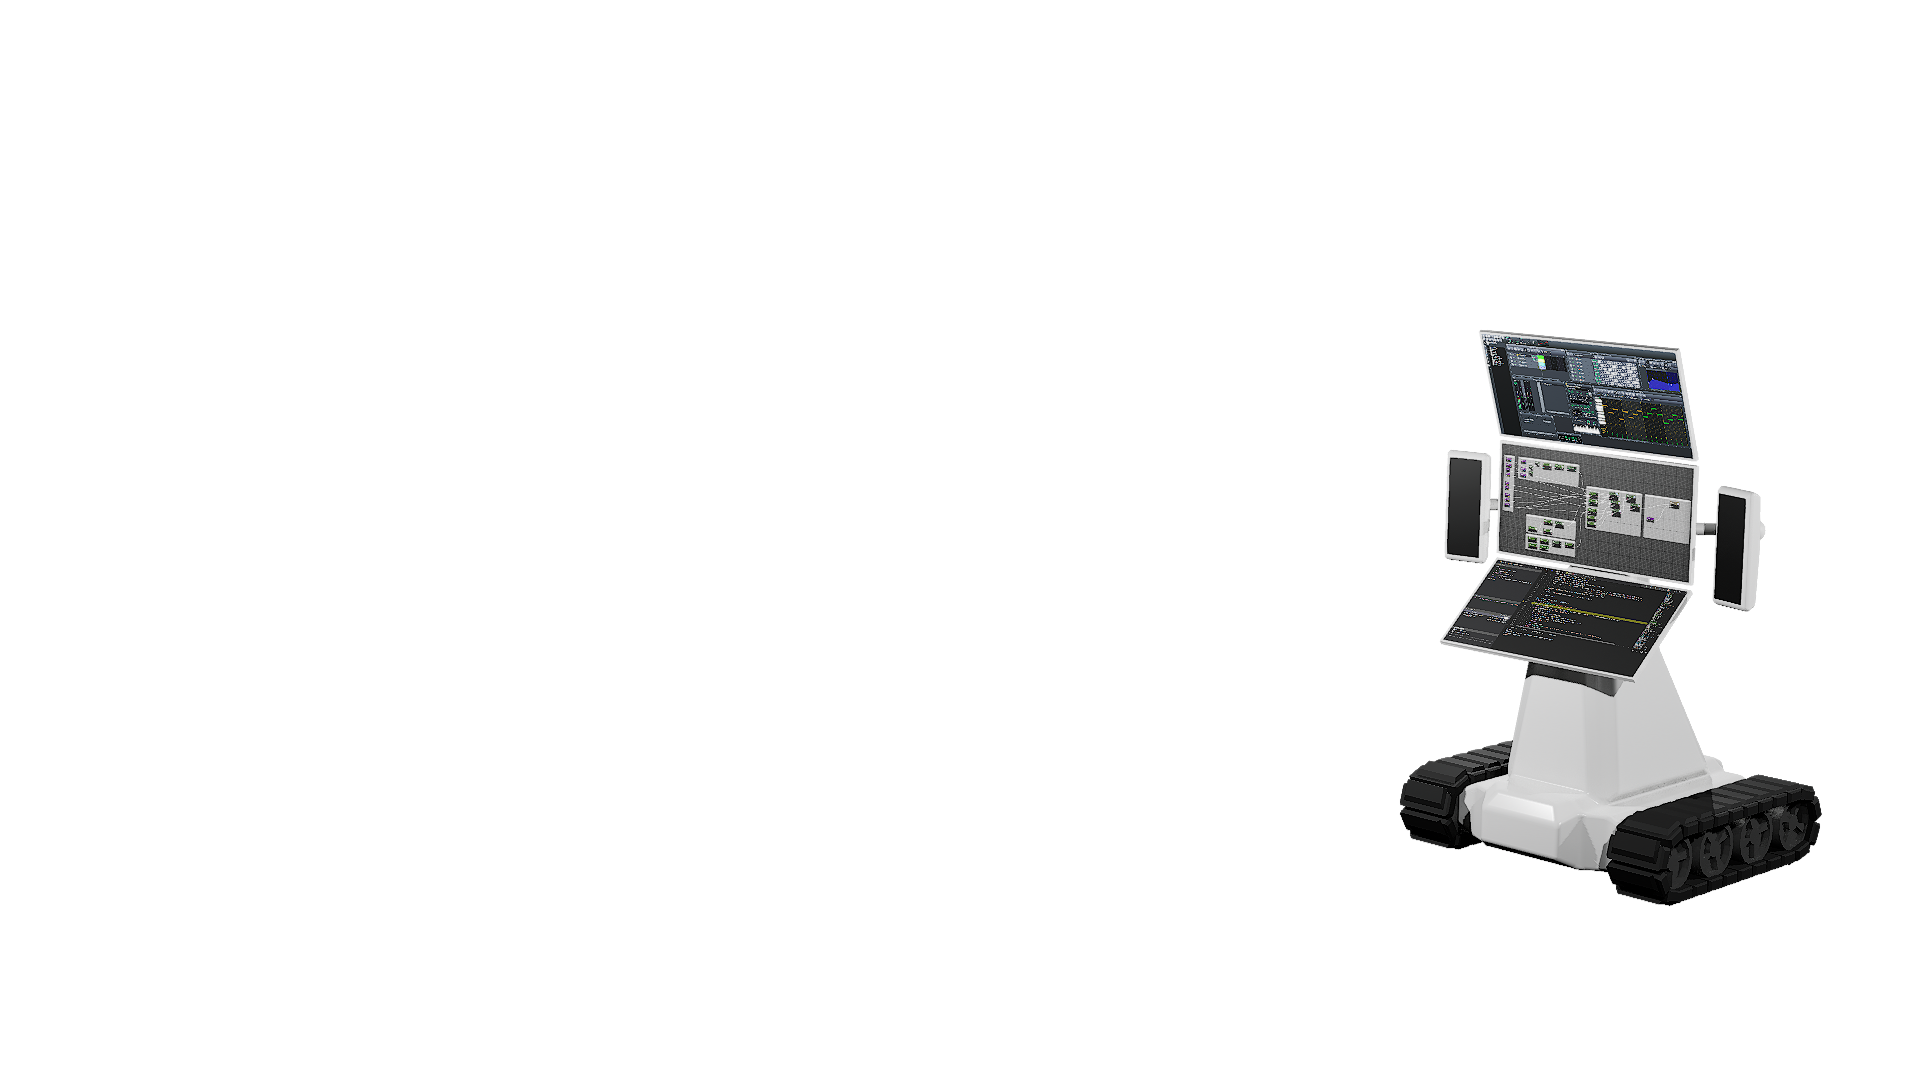
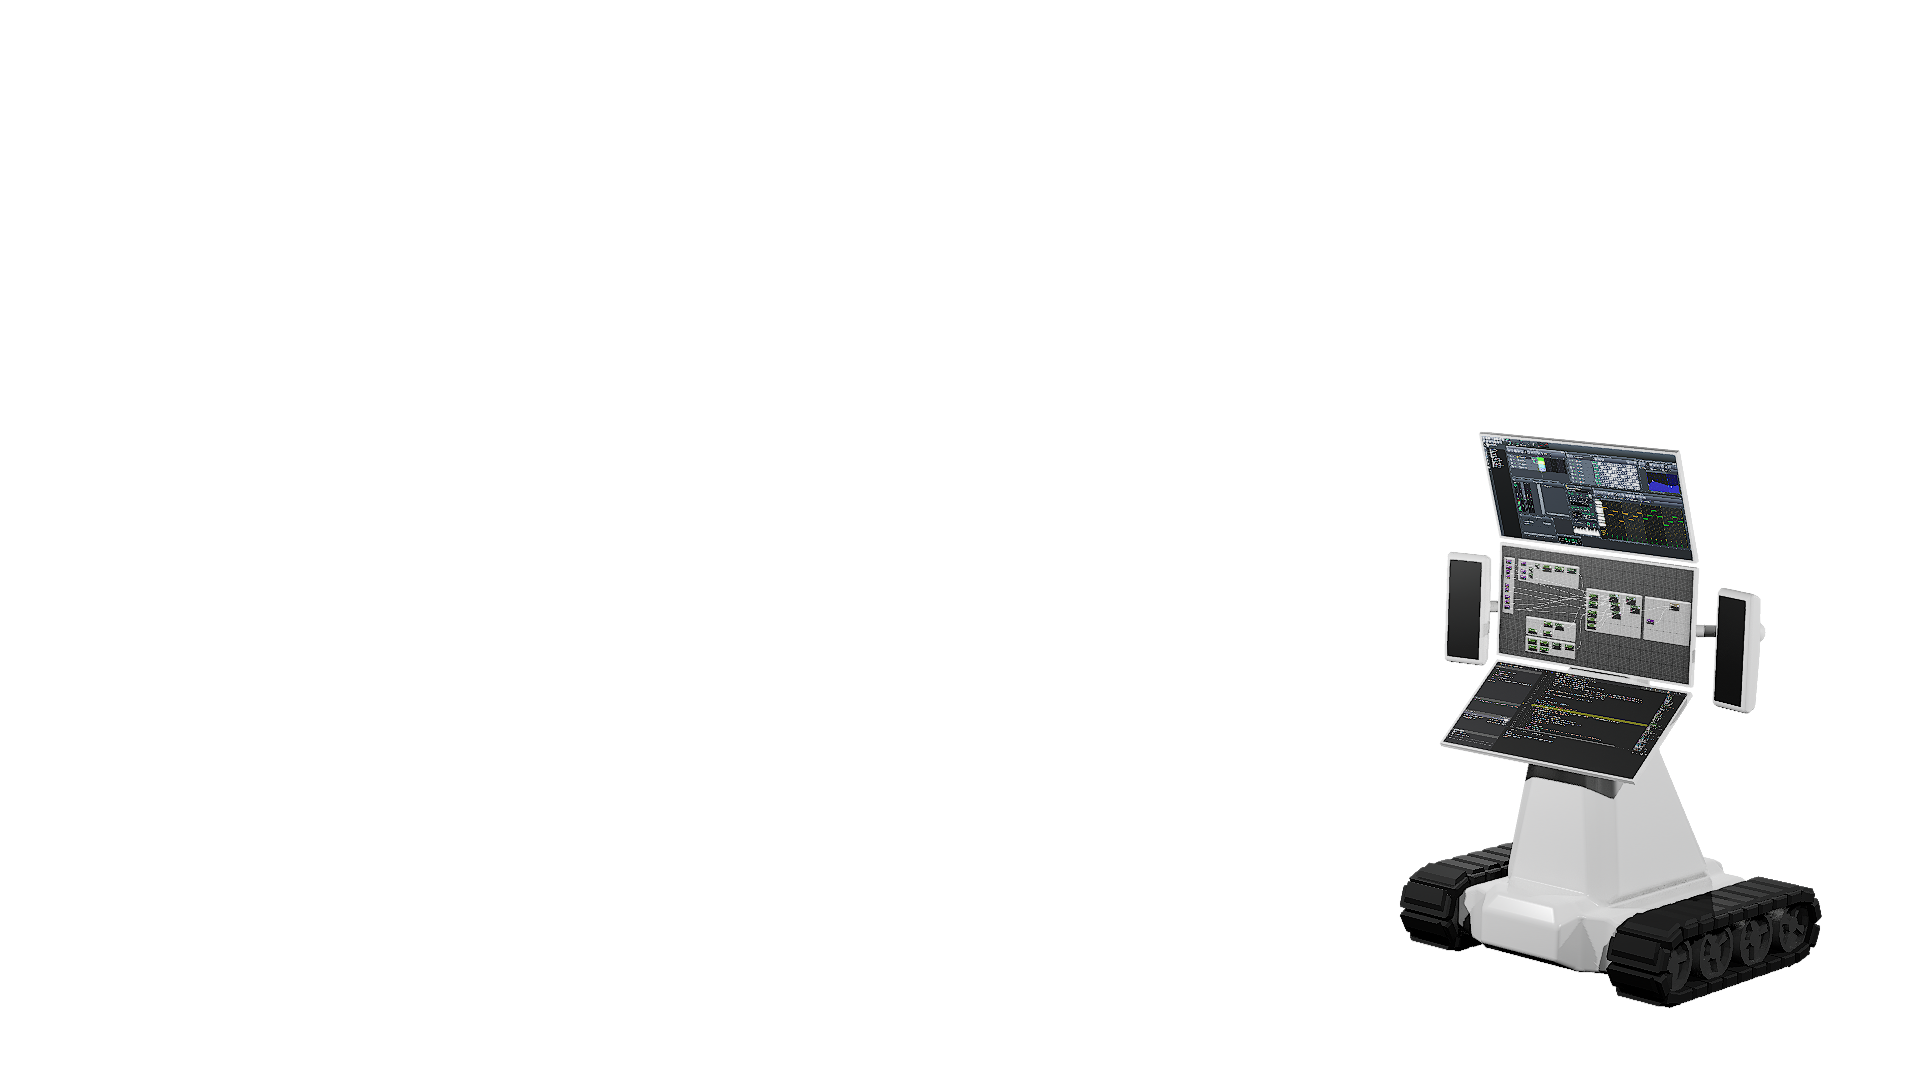
contact background image size

Changed region(s): [[0.7188, 0.3056, 0.9688, 0.9472]]

diff --git a/static/css/custom.css b/static/css/custom.css
@@ -47,8 +47,23 @@
 /* CONTACT */
 
 #contact {
-    background-position: right;
+    background-position: bottom right;
+    background-repeat: no-repeat;
+
+    background-size: 100% auto;
+    -webkit-background-size: 100% auto;
+    -moz-background-size: 100% auto;
+    -o-background-size: 100% auto;
 }
+@media(max-width: 768px) {
+    #contact {
+        background-size: auto 50vh;
+        -webkit-background-size: auto 50vh;
+        -moz-background-size: auto 50vh;
+        -o-background-size: auto 50vh;
+    }
+}
+
 #contact a {
     text-decoration: none;
 }
